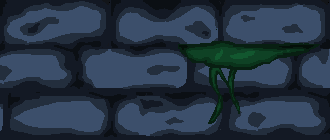
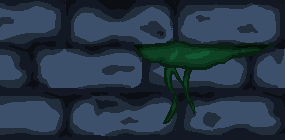
animation + jump + starting of the second level

diff --git a/classes.py b/classes.py
@@ -1,3 +1,5 @@
+import pygame
+
 from resources import *
 
 
@@ -26,6 +28,7 @@ class PLayer(pygame.sprite.Sprite):
         self.is_jump = False
         self.is_falling = False
         self.phase = 0
+        self.shadow = Images(player_img, pos)
         self.jump_direction = 0
         self.is_just_fall = False
         self.phase_going = 0
@@ -101,20 +104,36 @@ class PLayer(pygame.sprite.Sprite):
             self.phase = 0
         # подготовка к прыжку
 
-    def jump(self):
+    def jump(self, obstacles_group):
         if self.is_jump:
+            step = -15
+            self.shadow.rect.centery += step
+            if self.phase <= 2:
+                if len(pygame.sprite.spritecollide(self.shadow, obstacles_group, False, None)) != 0:
+                    self.is_jump = False
+                self.shadow.rect.centery = self.rect.centery
             if self.phase > 2:
-                step = -15
-                self.rect.centery += step
-                self.rect.centerx += self.jump_direction
+                if len(pygame.sprite.spritecollide(self.shadow, obstacles_group, False, None)) == 0:
+                    self.rect.centery = self.shadow.rect.centery
+                else:
+                    self.shadow.rect.centery = self.rect.centery
+                    self.is_jump = False
+                self.shadow.rect.centerx += self.jump_direction
+                if self.jump_direction != 0:
+                    if len(pygame.sprite.spritecollide(self.shadow, obstacles_group, False, None)) == 0:
+                        self.rect.centerx = self.shadow.rect.centerx
+                    else:
+                        self.shadow.rect.centerx = self.rect.centerx
+                        self.jump_direction = 0
             self.phase += 1
             if self.phase == 13:
                 self.is_jump = False
                 self.phase = 0
 
-    def update(self, x):
+    def update(self, x, obstacles_group):
+        self.shadow.rect.center = self.rect.center
         pressed_button = pygame.key.get_pressed()
-        if pressed_button[pygame.K_w]:
+        if pressed_button[pygame.K_w] or pressed_button[pygame.K_SPACE] or pressed_button[pygame.K_UP]:
             self.prepare_jump()
             self.jump_direction = 0
             if pressed_button[pygame.K_a]:
@@ -123,38 +142,57 @@ class PLayer(pygame.sprite.Sprite):
                 self.jump_direction = x
         elif not self.is_jump:
             if pressed_button[pygame.K_a] or pressed_button[pygame.K_LEFT]:
-                self.rect.centerx -= x
-                if self.rect.left < 0:
-                    self.rect.left = 0
+                self.shadow.rect.centerx -= x
+#                if self.shadow.rect.left < 0:
+#                    self.shadow.rect.left = 0
+                if len(pygame.sprite.spritecollide(self.shadow, obstacles_group, False, None)) == 0:
+                    self.rect.center = self.shadow.rect.center
+                else:
+                    self.shadow.rect.center = self.rect.center
                 if not self.is_left:
                     self.is_left = True
             elif pressed_button[pygame.K_d] or pressed_button[pygame.K_RIGHT]:
-                self.rect.centerx += x
+                self.shadow.rect.centerx += x
+                if len(pygame.sprite.spritecollide(self.shadow, obstacles_group, False, None)) == 0:
+                    self.rect.center = self.shadow.rect.center
+                else:
+                    self.shadow.rect.center = self.rect.center
 #                if self.rect.right > WIDTH:
 #                    self.rect.left = 0
                 if self.is_left:
-                    self.is_left = False
+                   self.is_left = False
         self.animation_falling()
-        self.jump()
+        self.jump(obstacles_group)
 
 
 
-    def falling(self, object):
+    def falling(self, obstacles_group):
         if not self.is_jump:
             buffer = self.is_falling
-#            if self.rect.bottom != object.rect.top:
-            if object.rect.top > self.rect.bottom:
+            self.shadow.rect.centery += 15
+            if len(pygame.sprite.spritecollide(self.shadow, obstacles_group, False, None)) == 0:
                 self.is_falling = True
-                self.rect.bottom += 15
-            elif object.rect.top < self.rect.bottom:
-                self.is_falling = False
-                self.rect.bottom = object.rect.top
-            elif object.rect.top == self.rect.bottom:
-                self.is_falling = False
+                self.rect.center = self.shadow.rect.center
+            elif len(pygame.sprite.spritecollide(self.shadow, obstacles_group, False, None)) != 0:
+                self.shadow.rect.centery -= 10
+                if len(pygame.sprite.spritecollide(self.shadow, obstacles_group, False, None)) == 0:
+                    self.rect.center = self.shadow.rect.center
+                    self.is_falling = True
+                else:
+                    self.is_falling = False
+                    self.shadow.rect.center = self.rect.center
             if buffer and not self.is_falling:
                 self.is_just_fall = True
                 self.phase = 0
             self.animation_falling()
+
+    def dying(self, group, *start_pos):
+        if len(pygame.sprite.spritecollide(self, group, False, None)) == 0:
+            pass
+        else:
+            self.rect.center = start_pos
+            self.shadow.rect.center = self.rect.center
+
 
 '''
     def __init__(self, pos, player_img):
@@ -201,25 +239,4 @@ class PLayer(pygame.sprite.Sprite):
                     self.image = self.image_right
                     self.is_left = False
 
-    def falling(self, object, tick_for_jump):
-        if self.rect.bottom != object.rect.top and tick_for_jump == 0:
-            if object.rect.top > self.rect.bottom:
-                self.rect.bottom += 5
-            elif object.rect.top < self.rect.bottom:
-                self.rect.bottom = object.rect.top
-
-    def pmuj(self):
-        if self.jump_p > 0:
-            self.rect.y -= 5
-            self.jump_p += 1
-            self.rect.x += self.jump_direction
-        elif self.jump_p < 0:
-            self.rect.y += 10
-            self.jump_p -= 1
-            self.rect.x += self.jump_direction
-        if self.jump_p == self.jump_height:
-            self.jump_p = -1
-        elif self.jump_p == -10:
-            self.jump_p = 1
-            self.jump = False
 '''

diff --git a/main.py b/main.py
@@ -1,69 +1,121 @@
 from classes import *
 import sys
 
+def level1(location):
+    if location == 'r':
+        location = 75
+    elif location == 'l':
+        location = 1325
+    player = PLayer((location, 525), player_img)
 
-def game():
-    global tick_for_jump
-    tick_for_jump = 0
-    player = PLayer((WIDTH / 2, 200), player_big_img)
+    hitbox_floor = Images(hitbox_img, (WIDTH / 2, 597))
+    obstacles_group = pygame.sprite.Group()
+    obstacles_group.add(hitbox_floor)
 
-    text_game = font_text.render("Game", False, (0, 0, 0))
-    text_rect = text_game.get_rect()
-    text_rect = (150, 150)
-
+    floor_1 = Images(level1_floor_img, (WIDTH / 2, HEIGHT / 2))
+    level1_images_gr = pygame.sprite.Group()
+    level1_images_gr.add(floor_1)
 
     objet_group = pygame.sprite.Group()
     objet_group.add(player)
     clock = pygame.time.Clock()
     min_fps = 200
     while True:
-        pressed_button = pygame.key.get_pressed()
-        mouse_pos = pygame.mouse.get_pos()
-        hitbox_floor = Images(hitbox_img, (WIDTH / 2, 593))
-        #floor_1 = Images(level1_floor_img,(WIDTH / 2, HEIGHT / 2))
 
-        level1_images_gr = pygame.sprite.Group()
-        level1_images_gr.add(hitbox_floor)
-        #level1_images_gr.add(floor_1)
-
-        SCREEN.blit(level1_back_img, (-100, 0))
+        SCREEN.blit(level1_back_img, (0, 0))
+        obstacles_group.draw(SCREEN)
         objet_group.draw(SCREEN)
         level1_images_gr.draw(SCREEN)
-
-
-        player.update(4)
-        player.falling(hitbox_floor, tick_for_jump)
-        tick_for_jump = 0
-        if pressed_button[pygame.K_w] and tick_for_jump == 0:
-            tick_for_jump = 1
-
-        if tick_for_jump != 0:
-            if tick_for_jump < 6:
-                player.rect.centery -= 5
-                print(tick_for_jump)
-            tick_for_jump += 1
-            if tick_for_jump == 11:
-                tick_for_jump = 0
         pygame.display.flip()
 
-        #print(f"низ перса {player.rect.bottom}, вверх хитбокса {hitbox_floor.rect.top} центр перса {player.rect.centery} вверх перса {player.rect.top}")
+        if player.rect.centerx > WIDTH:
+            return([2, 'r'])
+        player.update(12, obstacles_group)
+        player.falling(obstacles_group)
+        pygame.display.flip()
 
         for event in pygame.event.get():
             if event.type == pygame.QUIT:
                 sys.exit()
-            if event.type == pygame.KEYDOWN:
-                if event.key == pygame.K_ESCAPE:
-                    return
+
 
         if min_fps > clock.get_fps() > 0:
             min_fps = clock.get_fps()
-        #print(f"Фактическое кол-во FPS = {clock.get_fps()} а минимальное = {min_fps}")
+
         clock.tick(FPS)
+
+def level2(location):
+    if location == 'r':
+        location = 50
+    elif location == 'l':
+        location = 1325
+    start_y_buffer = 565
+    player = PLayer((location, start_y_buffer), player_img)
+
+    hitbox1_floor = Images(hitbox1_lvl2_img, (201, 635))
+    hitbox2_floor = Images(hitbox2_lvl2_img, (980, 635))
+    roof_hitbox = Images(hitbox_img, (WIDTH/ 2, 138))
+    barrier1 = Images(barrier1_lvl2, (284, 580))
+    barrier2 = Images(barrier2_lvl2, (700, 557))
+    barrier3 = Images(barrier3_lvl2, (985, 509))
+    barrier4 = Images(barrier4_lvl2, (1221, 535))
+    barrier5 = Images(barrier5_lvl2, (171, 377))
+    barrier6 = Images(barrier6_lvl2, (124, 347))
+    barrier7 = Images(barrier7_lvl2, (54, 233))
+    obstacles_group = pygame.sprite.Group()
+    obstacles_group.add(barrier1, barrier2, barrier3, barrier4, barrier5, barrier6, barrier7)
+    obstacles_group.add(hitbox1_floor, hitbox2_floor, roof_hitbox)
+
+    floor = Images(level2_floor_img, (WIDTH / 2, HEIGHT / 2))
+    level2_images_gr = pygame.sprite.Group()
+    level2_images_gr.add(floor)
+
+    danger1 = Images(danger1_lvl2, (505, 652))
+    danger_group = pygame.sprite.Group()
+    danger_group.add(danger1)
+
+    objet_group = pygame.sprite.Group()
+    objet_group.add(player)
+    clock = pygame.time.Clock()
+    min_fps = 200
+    while True:
+        SCREEN.blit(level2_back_img, (0, 0))
+        obstacles_group.draw(SCREEN)
+        objet_group.draw(SCREEN)
+        level2_images_gr.draw(SCREEN)
+        pygame.display.flip()
+
+        if player.rect.centerx < 0:
+            return([1, 'l'])
+
+        player.falling(obstacles_group)
+        player.update(12, obstacles_group)
+        player.dying(danger_group, location, start_y_buffer)
+        pygame.display.flip()
+
+        for event in pygame.event.get():
+            if event.type == pygame.QUIT:
+                sys.exit()
+
+
+        if min_fps > clock.get_fps() > 0:
+            min_fps = clock.get_fps()
+
+        clock.tick(FPS)
+
+def game():
+    x = level1('r')
+    while True:
+        if x[0] == 2:
+            x = level2(x[1])
+        elif x[0] == 1:
+            x = level1(x[1])
+
+
 
 
 
 def main_menu():
-
 
     # pygame.mixer.music.load(menu_fon_music)
     # pygame.mixer.music.set_volume(music_volume)
@@ -81,12 +133,12 @@ def main_menu():
     buttons_gr.add(play_btn, exit_btn)
     images_gr.add(heading_img)
 
-    while True:
-        SCREEN.blit(fon_img, (0, 0))
-        buttons_gr.draw(SCREEN)
-        images_gr.draw(SCREEN)
+    SCREEN.blit(fon_img, (100, 0))
+    buttons_gr.draw(SCREEN)
+    images_gr.draw(SCREEN)
 
-        pygame.display.flip()
+    pygame.display.flip()
+    while True:
         mouse_pos = pygame.mouse.get_pos()
         for event in pygame.event.get():
             if event.type == pygame.QUIT:
@@ -98,5 +150,5 @@ def main_menu():
                 elif exit_btn.rect.collidepoint(mouse_pos):
                     sys.exit()
 
-
 main_menu()
+

diff --git a/resources.py b/resources.py
@@ -35,6 +35,9 @@ barrier6_lvl2 = pygame.image.load(os.path.join(background_img_folder, "level2/ba
 barrier7_lvl2 = pygame.image.load(os.path.join(background_img_folder, "level2/barrier_hitbox7_lvl2.png")).convert_alpha()
 level2_back_img = pygame.image.load(os.path.join(background_img_folder, "level2/level2_background.png")).convert_alpha()
 level2_floor_img = pygame.image.load(os.path.join(background_img_folder, "level2/level2_floor.png")).convert_alpha()
+hitbox1_lvl2_img = pygame.image.load(os.path.join(background_img_folder, "level2/floor_hitbox1_lvl2.png")).convert_alpha()
+hitbox2_lvl2_img = pygame.image.load(os.path.join(background_img_folder, "level2/danger_hitbox2_lvl2.png")).convert_alpha()
+danger1_lvl2 = pygame.image.load(os.path.join(background_img_folder, "level2/floor_hitbox2_lvl2.png")).convert_alpha()
 
 player_big_img = pygame.image.load(os.path.join(image_folder, "character_big.png")).convert_alpha()
 player_img = pygame.image.load(os.path.join(image_folder, "character_official.png")).convert_alpha()
